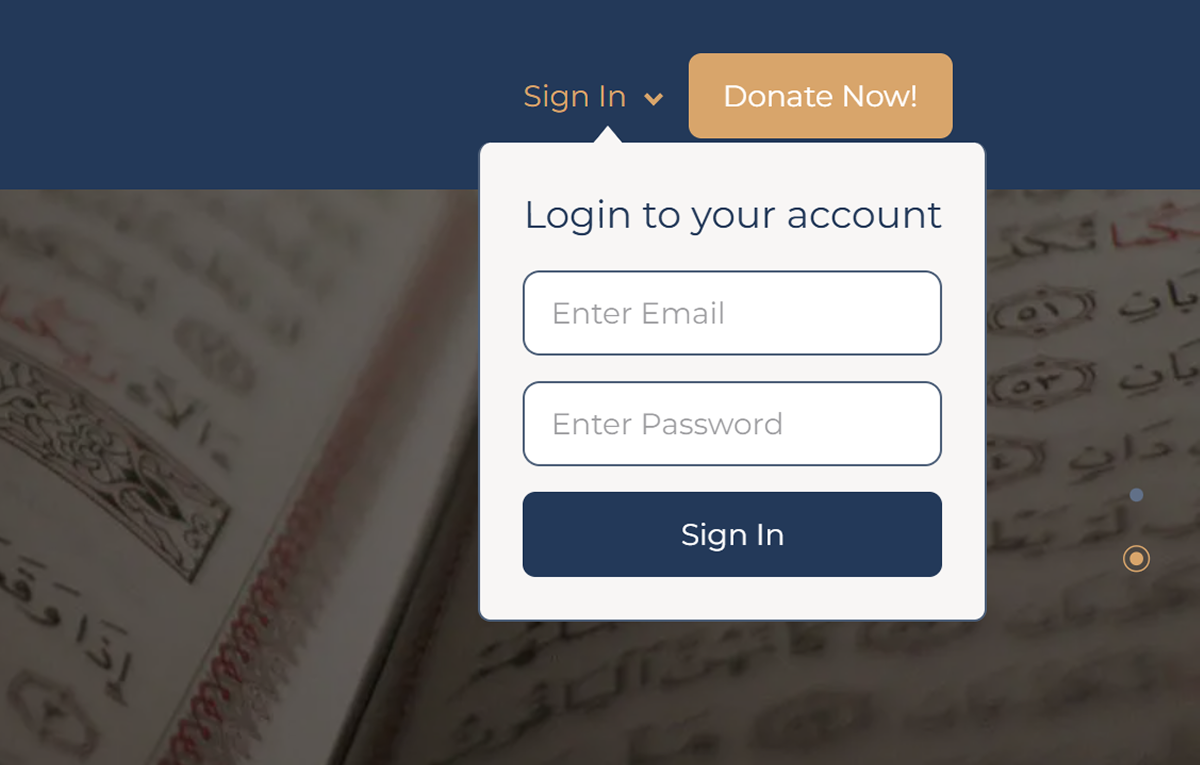
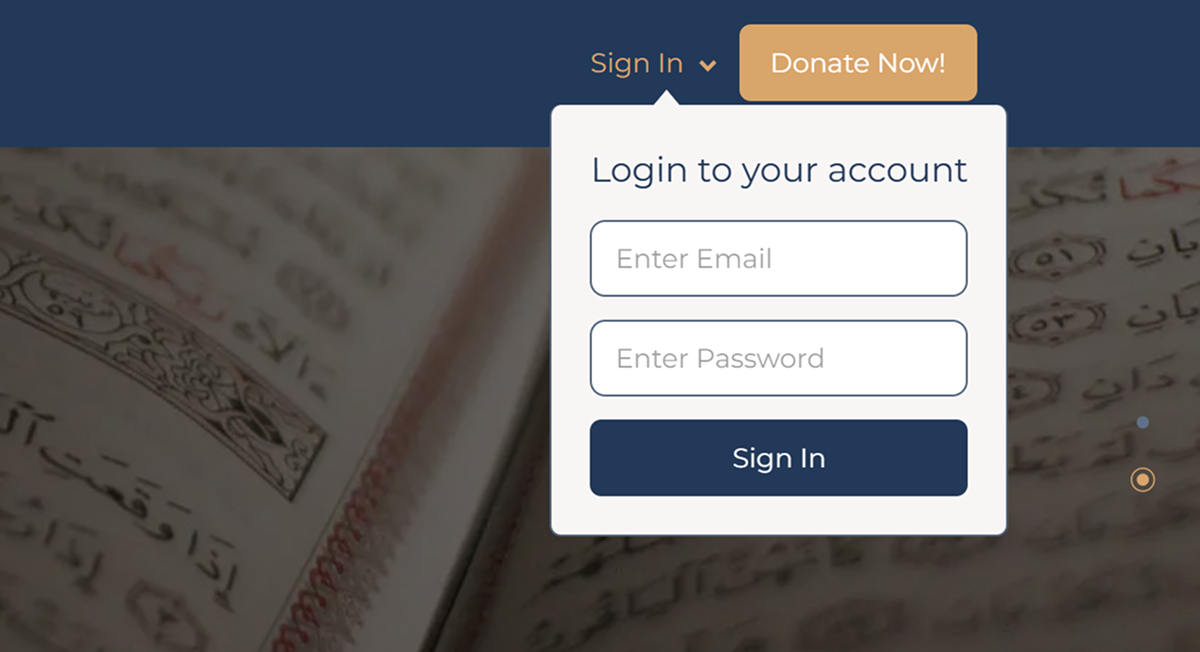
Adjust images.

diff --git a/app/data/projects.ts b/app/data/projects.ts
@@ -85,7 +85,7 @@ export const projects = [
   {
     slug: "authentication-interface",
 
-    cardImage: "/projects/authentication/auth-hero.png",
+    cardImage: "/projects/authentication/auth-project-hero.png",
 
     title: "Authentication Login Interface",
 
@@ -168,7 +168,7 @@ export const projects = [
   {
     slug: "interactive-virtual-tour",
 
-    cardImage: "/projects/virtual-tour/tour-hero.png",
+    cardImage: "/projects/virtual-tour/tour-project-hero.png",
 
     title: "Interactive Virtual Tour Experience",
 
@@ -205,7 +205,7 @@ export const projects = [
       "Component Architecture",
     ],
 
-    heroImage: "/projects/virtual-tour/virtual-hero.png",
+    heroImage: "/projects/virtual-tour/tour-hero.png",
 
     gallery: [
       {
@@ -281,7 +281,7 @@ export const projects = [
       "UI Development",
     ],
 
-    heroImage: "/projects/sponsors-showcase/sponsors-hero.png",
+    heroImage: "/projects/sponsors-showcase/desktop-top.png",
 
     gallery: [
       {
@@ -321,7 +321,7 @@ export const projects = [
   {
     slug: "courses-interface",
 
-    cardImage: "/projects/courses-interface/courses-hero.png",
+    cardImage: "/projects/courses-interface/courses-project-hero.png",
 
     title: "Courses Interface with Dynamic Layout",
 
